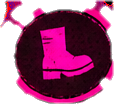
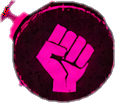
Make menus tappable on touch and use a glowing fist for heavy attack
Pause rows, mode signs, stage cards and fighter cards respond to taps;
the d-pad also navigates the pause menu. Short taps on the title no
longer get lost between frames. Light attack is a grey fist, heavy a
glowing pink fist instead of the boot.

Claude-Session: https://claude.ai/code/session_01WBYK5V3ivYcmqzsh95F6Vz

diff --git a/index.html b/index.html
@@ -508,7 +508,8 @@ const P2 = {
 // Touch state
 const touch = { left:false, right:false, up:false, down:false, light:false, heavy:false, special:false, any:false, confirm:false, pause:false };
 let touchActive = false;
-const touchJust = { light:false, heavy:false, special:false, confirm:false, pause:false, left:false, right:false, up:false, down:false };
+const touchJust = { light:false, heavy:false, special:false, confirm:false, pause:false, left:false, right:false, up:false, down:false, any:false };
+let tapPos = null;
 
 const TBTN = [
   { id:'left',  x:90,  y:H-85, r:32 },
@@ -530,6 +531,12 @@ function handleTouches(e) {
   for (const k in touchJust) prev[k] = touch[k];
   for (const k in touch) touch[k] = false;
   const rect = canvas.getBoundingClientRect();
+  if (e.type === 'touchstart') {
+    for (const t of e.changedTouches) {
+      const tx = (t.clientX - rect.left) / rect.width * W, ty = (t.clientY - rect.top) / rect.height * H;
+      if (!TBTN.some(btn => Math.hypot(tx - btn.x, ty - btn.y) < btn.r * 1.3)) tapPos = { x: tx, y: ty };
+    }
+  }
   for (const t of e.touches) {
     const tx = (t.clientX - rect.left) / rect.width * W;
     const ty = (t.clientY - rect.top) / rect.height * H;
@@ -557,7 +564,7 @@ function drawTouchUI() {
     if (btn.id === 'pause' && !inFight) continue;
     if (btn.id === 'confirm' && game.state === 'fighting') continue;
     const pressed = touch[btn.id];
-    if (drawImg('ui_' + TOUCH_IMG[btn.id], btn.x, btn.y, btn.r * 2.2, { alpha: pressed ? 1 : 0.7, scale: pressed ? 1.12 : 1, flip: btn.id === 'left' })) continue;
+    if (drawImg('ui_' + TOUCH_IMG[btn.id], btn.x, btn.y, btn.r * 2.2, { alpha: pressed ? 1 : 0.75, scale: pressed ? 1.12 : 1, flip: btn.id === 'left', glow: btn.id === 'heavy' ? P.p1 : null, blur: 18 })) continue;
     ctx.globalAlpha = pressed ? 0.5 : 0.2;
     ctx.fillStyle = '#fff';
     ctx.beginPath();
@@ -3385,7 +3392,7 @@ function confirm() {
 }
 
 function updateTitle() {
-  if (confirm() || touch.any) {
+  if (confirm() || touchJust.any) {
     game.state = 'modeSelect';
     game.modeSelect = 0;
     SFX.select();
@@ -3399,7 +3406,9 @@ function updateModeSelect() {
   if (wasPressed('KeyS') || wasPressed('ArrowDown') || wasPressed('KeyD') || wasPressed('ArrowRight') || touchJust.down || touchJust.right) {
     game.modeSelect = 1; SFX.move();
   }
-  if (confirm()) {
+  let tappedMode = false;
+  for (let i = 0; i < 2; i++) if (tapIn(W/2 + (i ? 205 : -205) - 150, 290 - 150, 300, 300)) { game.modeSelect = i; tappedMode = true; }
+  if (confirm() || tappedMode) {
     game.vsAI = game.modeSelect === 0;
     game.state = 'charSelect';
     game.p1Select = 0;
@@ -3446,7 +3455,12 @@ function updateCharSelect() {
     }
   }
 
-  if (confirm()) {
+  let goFight = false;
+  for (let i = 0; i < 4; i++) if (tapIn(150 + i * 220 - 90, 270 - 115, 180, 240)) {
+    if (game.p1Select === i) goFight = true;
+    else if (i !== game.p2Select || !game.vsAI) { game.p1Select = i; if (game.vsAI && game.p2Select === i) game.p2Select = (i + 1) % 4; SFX.move(); }
+  }
+  if (confirm() || goFight) {
     game.state = 'stageSelect';
     SFX.select();
   }
@@ -3460,7 +3474,9 @@ function updateStageSelect() {
     game.stageSelect = (game.stageSelect + 1) % STAGES.length; SFX.move();
   }
   if (wasPressed('Escape')) { game.state = 'charSelect'; SFX.move(); return; }
-  if (confirm()) {
+  let go = false;
+  for (let i = 0; i < STAGES.length; i++) if (tapIn(150 + i * 220 - 105, 250 - 120, 210, 260)) { if (game.stageSelect === i) go = true; else { game.stageSelect = i; SFX.move(); } }
+  if (confirm() || go) {
     game.stage = game.stageSelect;
     startMatch();
     SFX.select();
@@ -3567,13 +3583,17 @@ function updateFighting() {
   updateParticles();
 }
 
+function tapIn(x, y, w, h) { return tapPos && tapPos.x >= x && tapPos.x <= x + w && tapPos.y >= y && tapPos.y <= y + h; }
+
 function updatePaused() {
   const MENU_ITEMS = ['Resume', 'Configure Controls', 'Quit to Menu'];
-  if (wasPressed('KeyW') || wasPressed('ArrowUp') || (touchJust.light && touch.up)) {
+  let tapped = false;
+  for (let i = 0; i < MENU_ITEMS.length; i++) if (tapIn(W/2 - 200, 250 + i * 64 - 30, 400, 60)) { game.pauseMenu = i; tapped = true; }
+  if (wasPressed('KeyW') || wasPressed('ArrowUp') || touchJust.up) {
     game.pauseMenu = (game.pauseMenu + MENU_ITEMS.length - 1) % MENU_ITEMS.length;
     SFX.move();
   }
-  if (wasPressed('KeyS') || wasPressed('ArrowDown') || (touchJust.light && touch.down)) {
+  if (wasPressed('KeyS') || wasPressed('ArrowDown') || touchJust.down) {
     game.pauseMenu = (game.pauseMenu + 1) % MENU_ITEMS.length;
     SFX.move();
   }
@@ -3582,7 +3602,7 @@ function updatePaused() {
     SFX.select();
     return;
   }
-  if (confirm()) {
+  if (confirm() || tapped) {
     if (game.pauseMenu === 0) {
       game.state = 'fighting';
       SFX.select();
@@ -3913,6 +3933,7 @@ function gameLoop(timestamp) {
     tick();
     clearJustPressed();
     for (const k in touchJust) touchJust[k] = false;
+    tapPos = null;
   }
 
   render();
